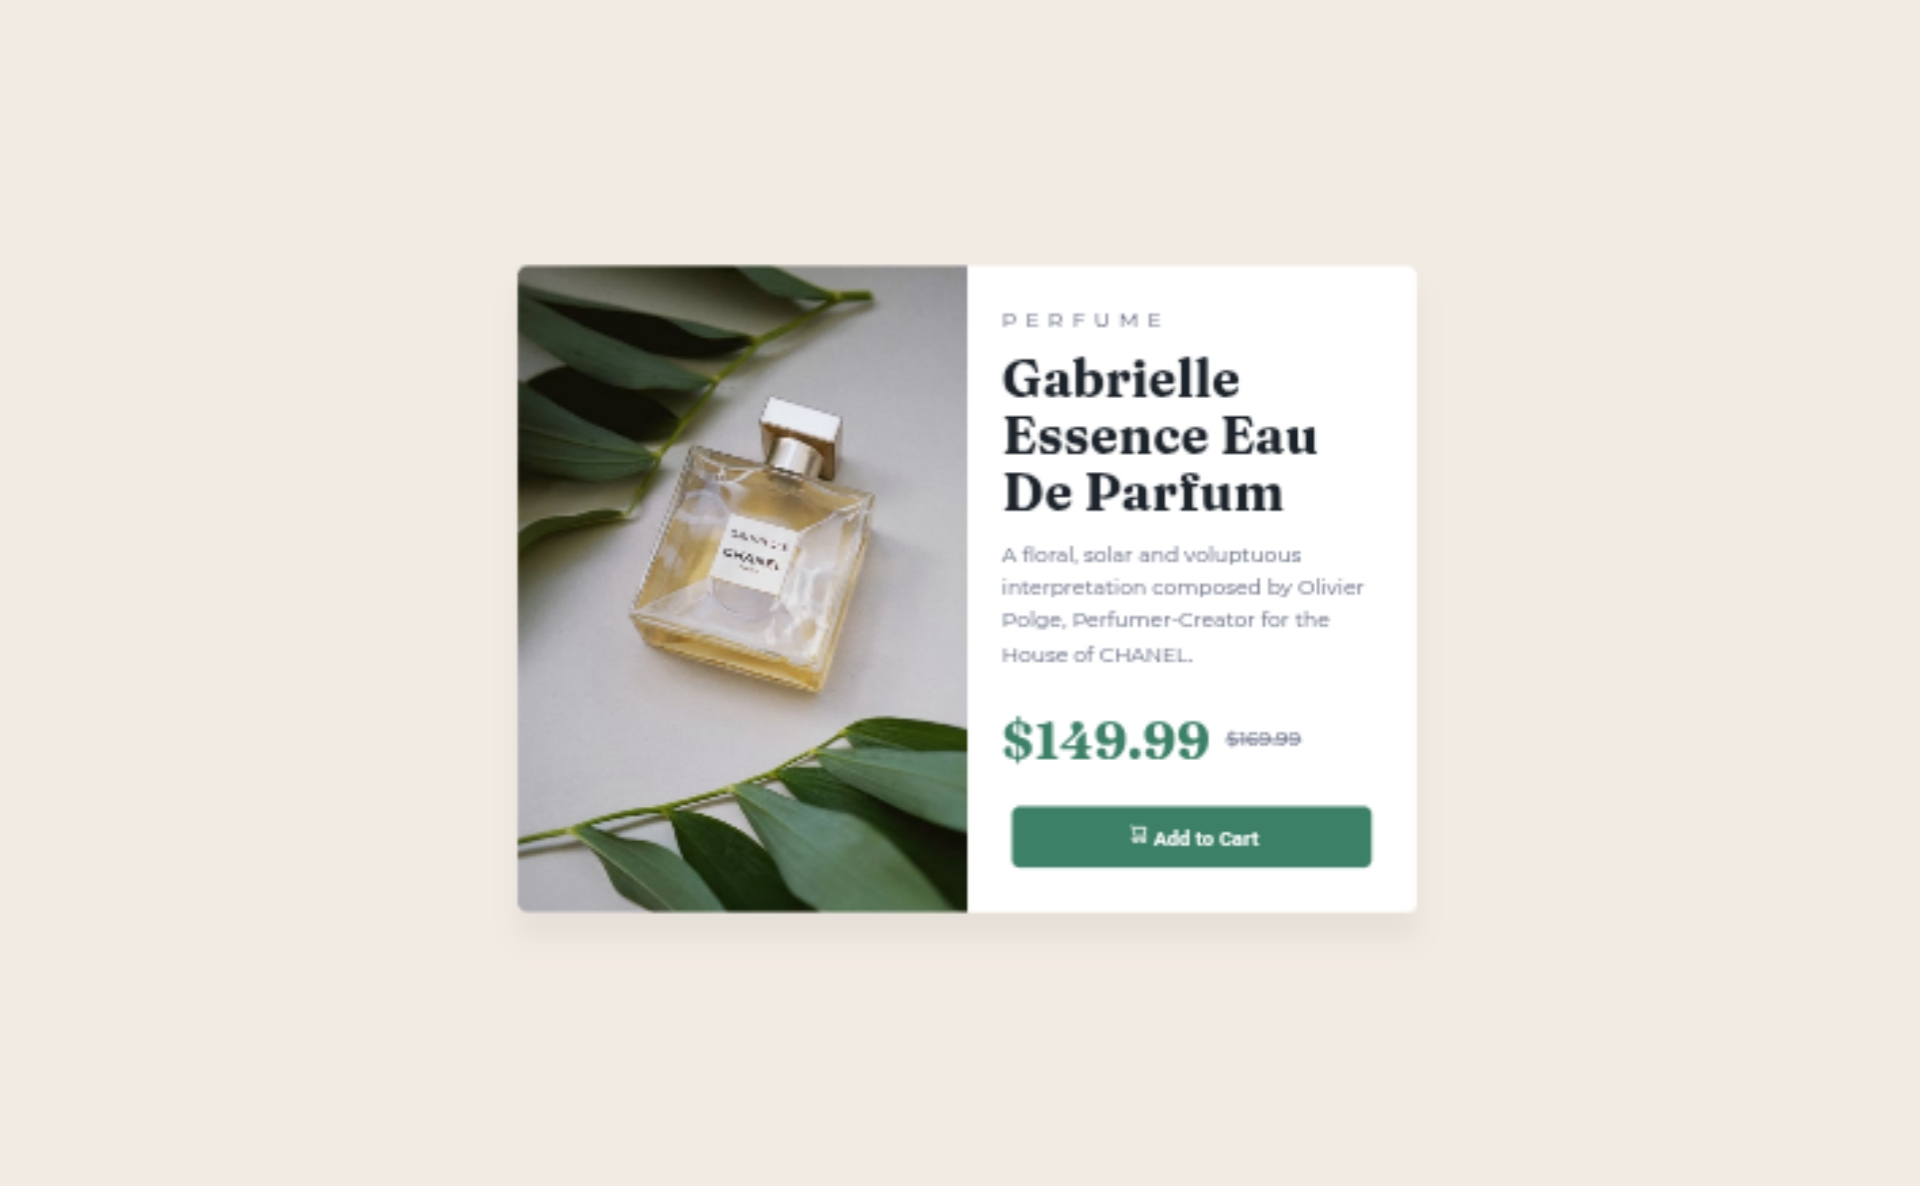
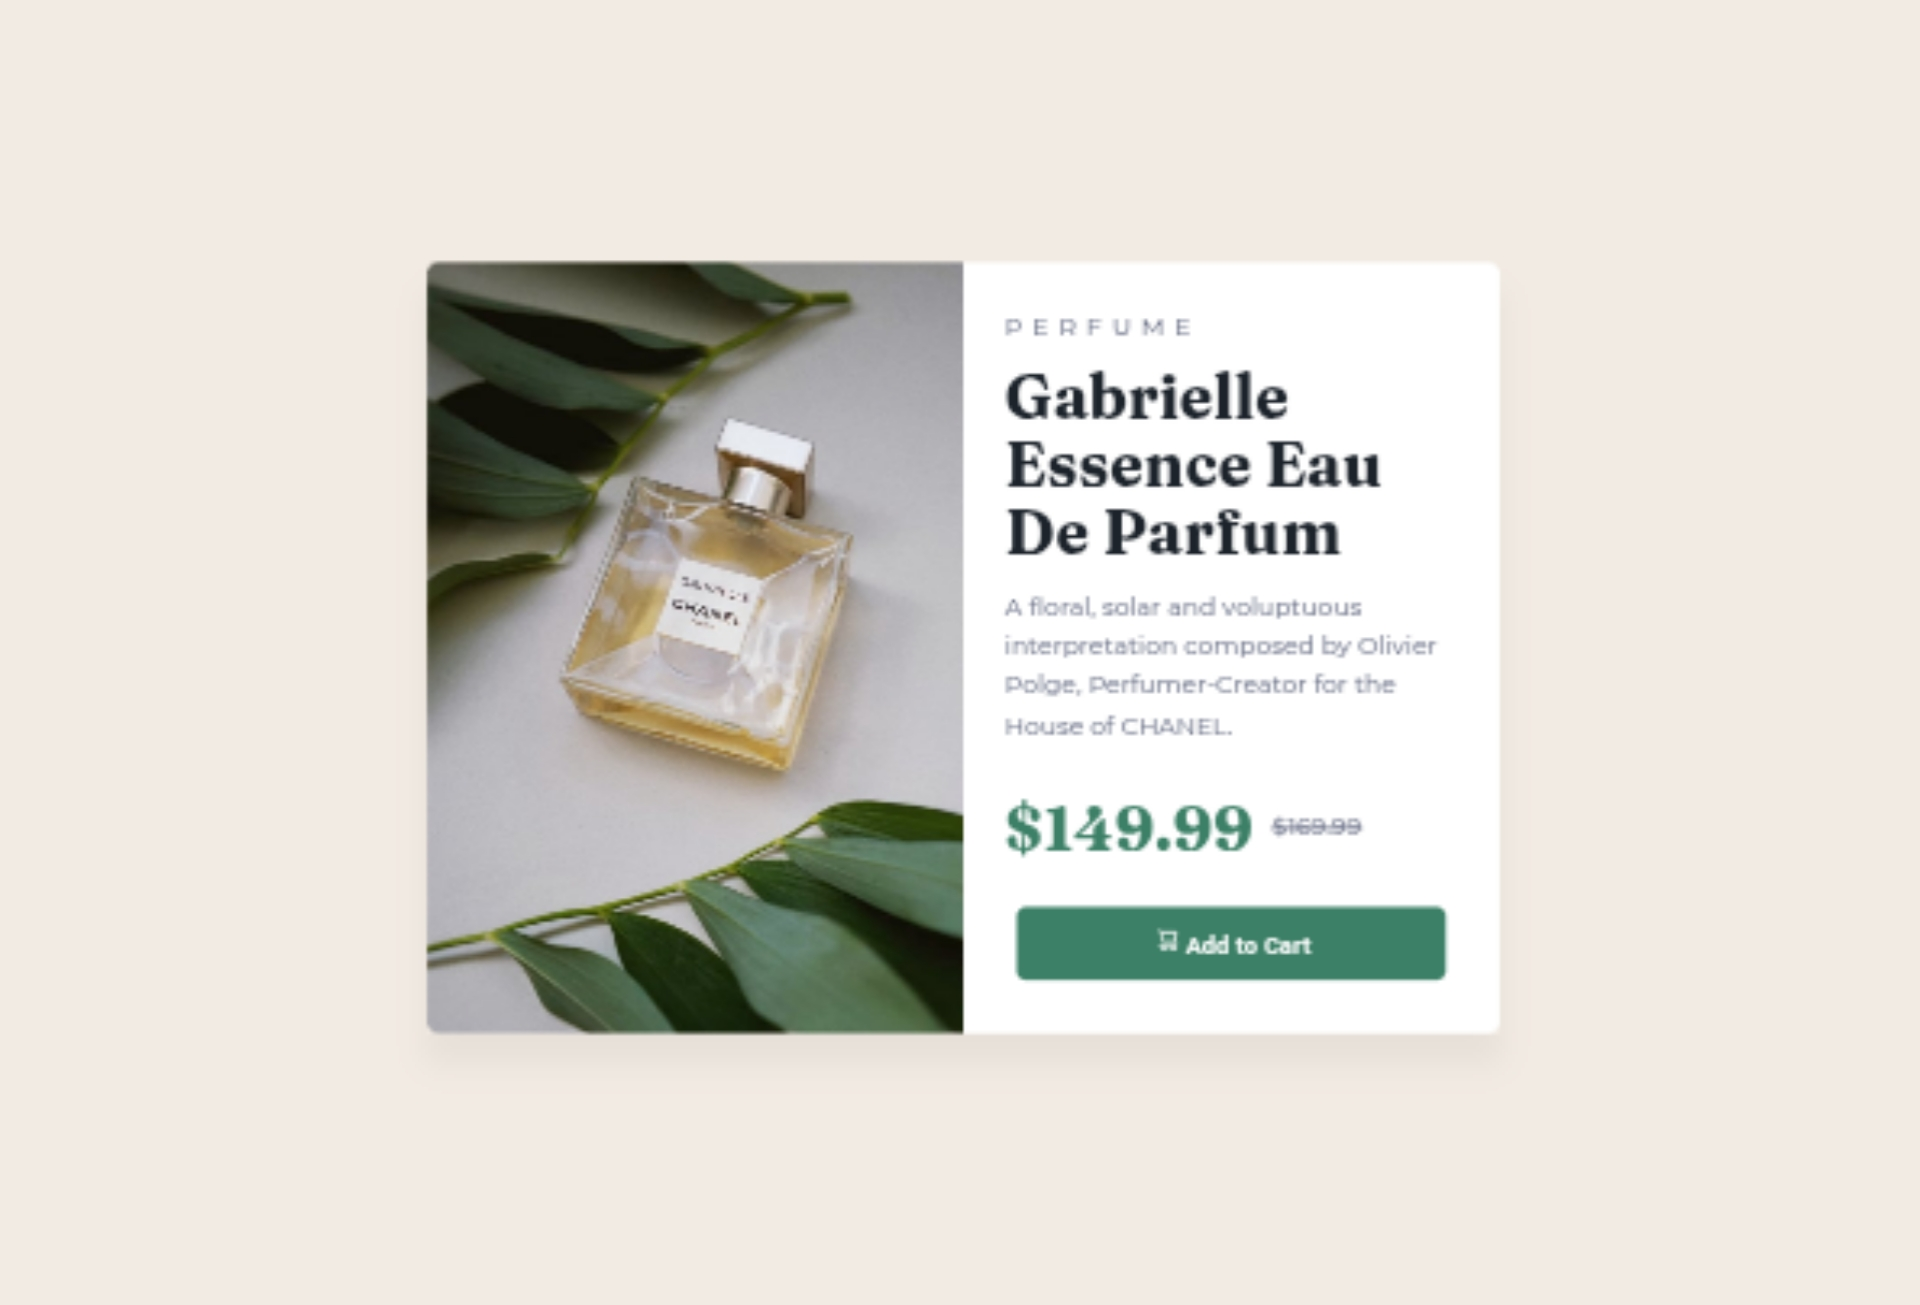
update

Changed region(s): [[0.2188, 0.1872, 0.7812, 0.8111]]

diff --git a/src/style.css b/src/style.css
@@ -139,7 +139,7 @@
     }
     
     .product-description .text-1 {
-      letter-spacing: 0.26rem;
+      letter-spacing: 0.25rem;
     }
     
     .product-description button {
@@ -171,7 +171,7 @@
     }
     
     .product-description .text-1 {
-      letter-spacing: 0.2825rem;
+      letter-spacing: 0.2725rem;
     }
     
     .product-description button {
@@ -192,7 +192,7 @@
     }
     
     .product-description .text-1 {
-      letter-spacing: 0.344rem;
+      letter-spacing: 0.334rem;
     }
     }
     
@@ -205,7 +205,7 @@
     }
     
     .product-description .text-1 {
-      letter-spacing: 0.449rem;
+      letter-spacing: 0.419rem;
     }
     }
     
